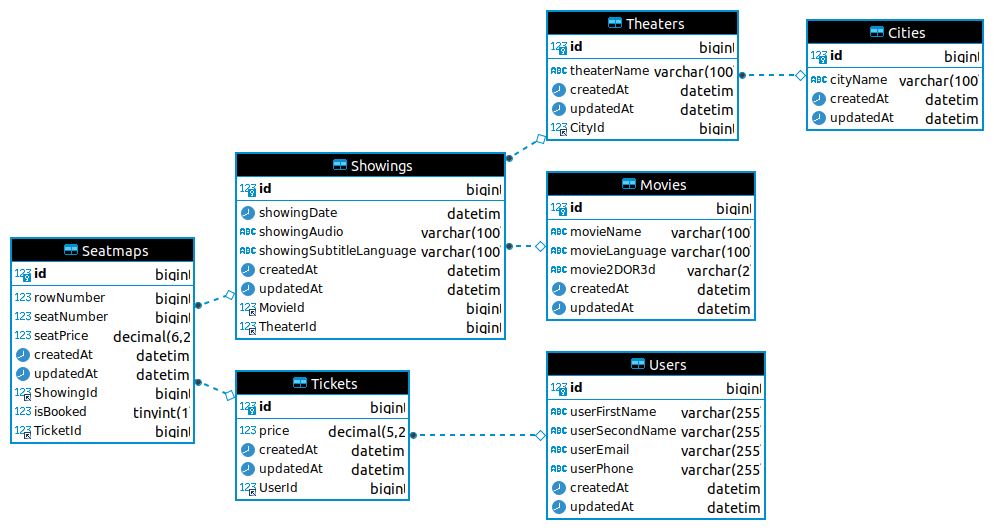
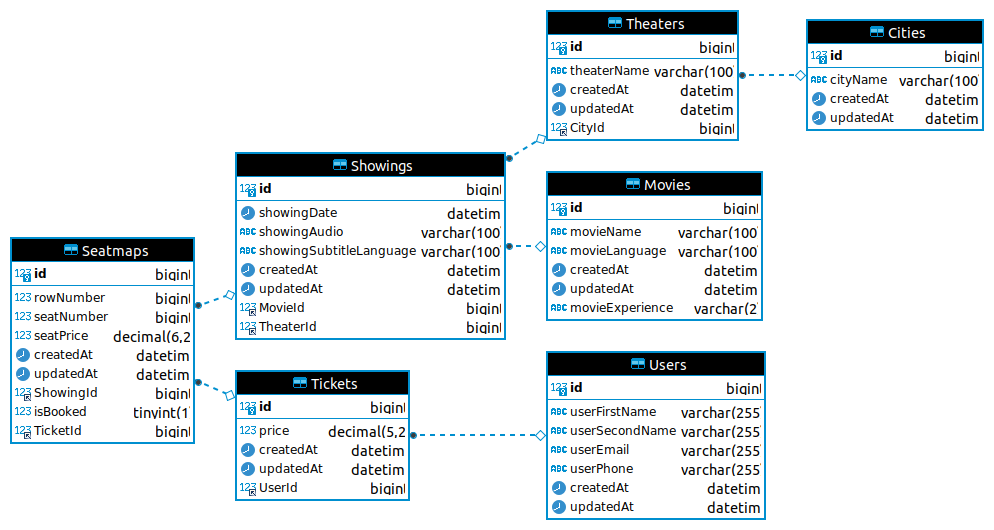
Tiny changes.

Changed region(s): [[0.5302, 0.3321, 0.7797, 0.6038], [0.6237, 0.3321, 0.7173, 0.3623]]

diff --git a/src/service/movieService.js b/src/service/movieService.js
@@ -96,7 +96,7 @@ exports.getShowingsByTheaterAndDate = async (cityid, theaterid, queryDate) => {
                     ], 
                     include: [{
                         model: Movie,
-                        attributes:['movieName', 'movieLanguage', 'movie2DOR3D']
+                        attributes:['movieName', 'movieLanguage', 'movieExperience']
                     }]
                 }]
             }

diff --git a/src/service/writeToCache.js b/src/service/writeToCache.js
@@ -4,7 +4,7 @@ exports.writeToCache = async (keyData, valueData) => {
     const key = keyData.cityid + '_' + keyData.theaterid + '_' + keyData.queryDate;
     const value = JSON.stringify(valueData);
     try{
-        await redisClient.set(key, value, {EX: 10}) ;
+        await redisClient.set(key, value, {EX: 60 * 5}) ;
         console.log("Wrote to cache succesfully")
     } 
     catch (err){

diff --git a/src/models/movies.js b/src/models/movies.js
@@ -16,7 +16,7 @@ const Movie = Sequelize.define('Movie', {
         type: Datatypes.STRING(100),
         allowNull: false
     },
-    movie2DOR3d: {
+    movieExperience: {
         type: Datatypes.STRING(2),
         allowNull: false
     }
